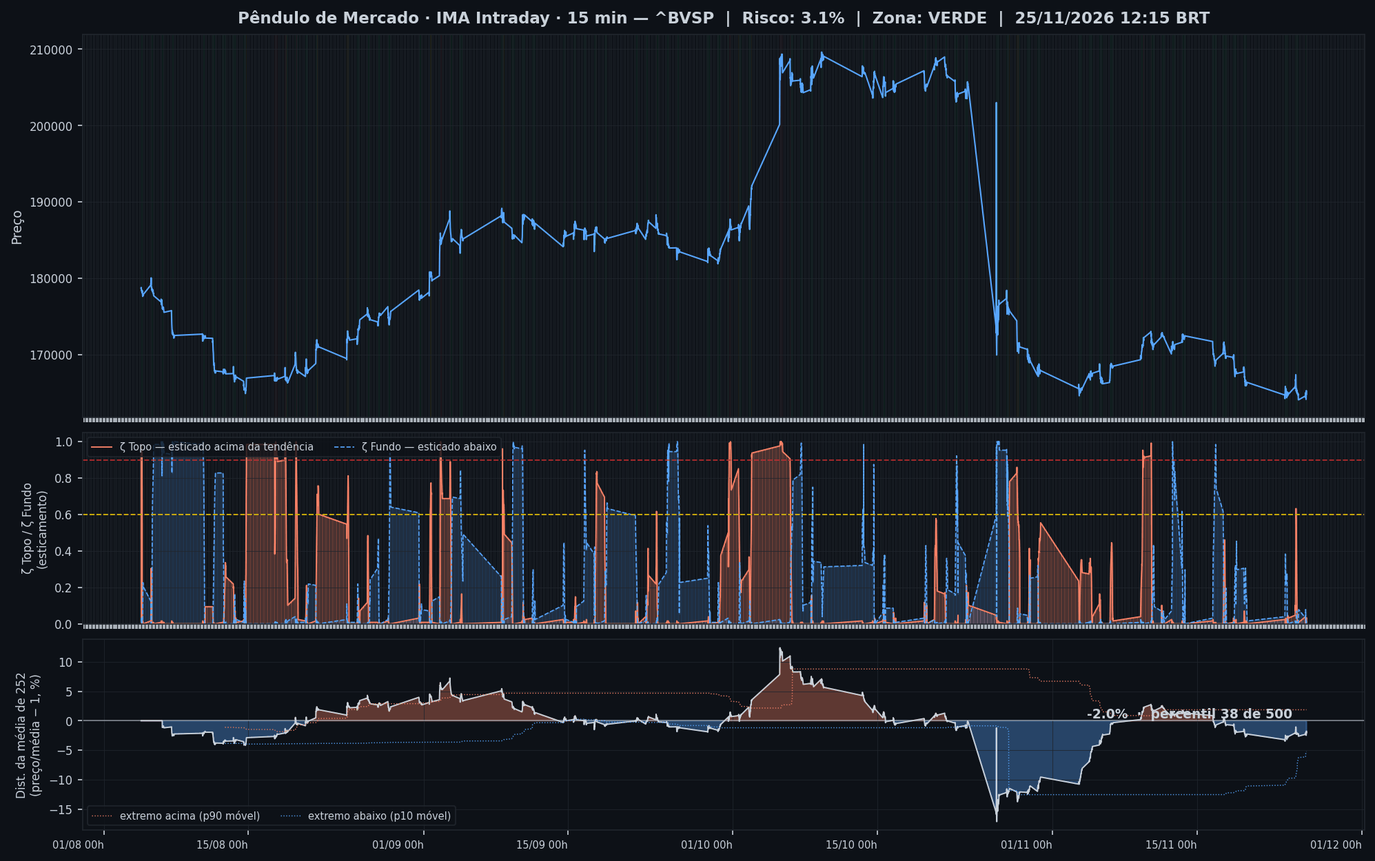
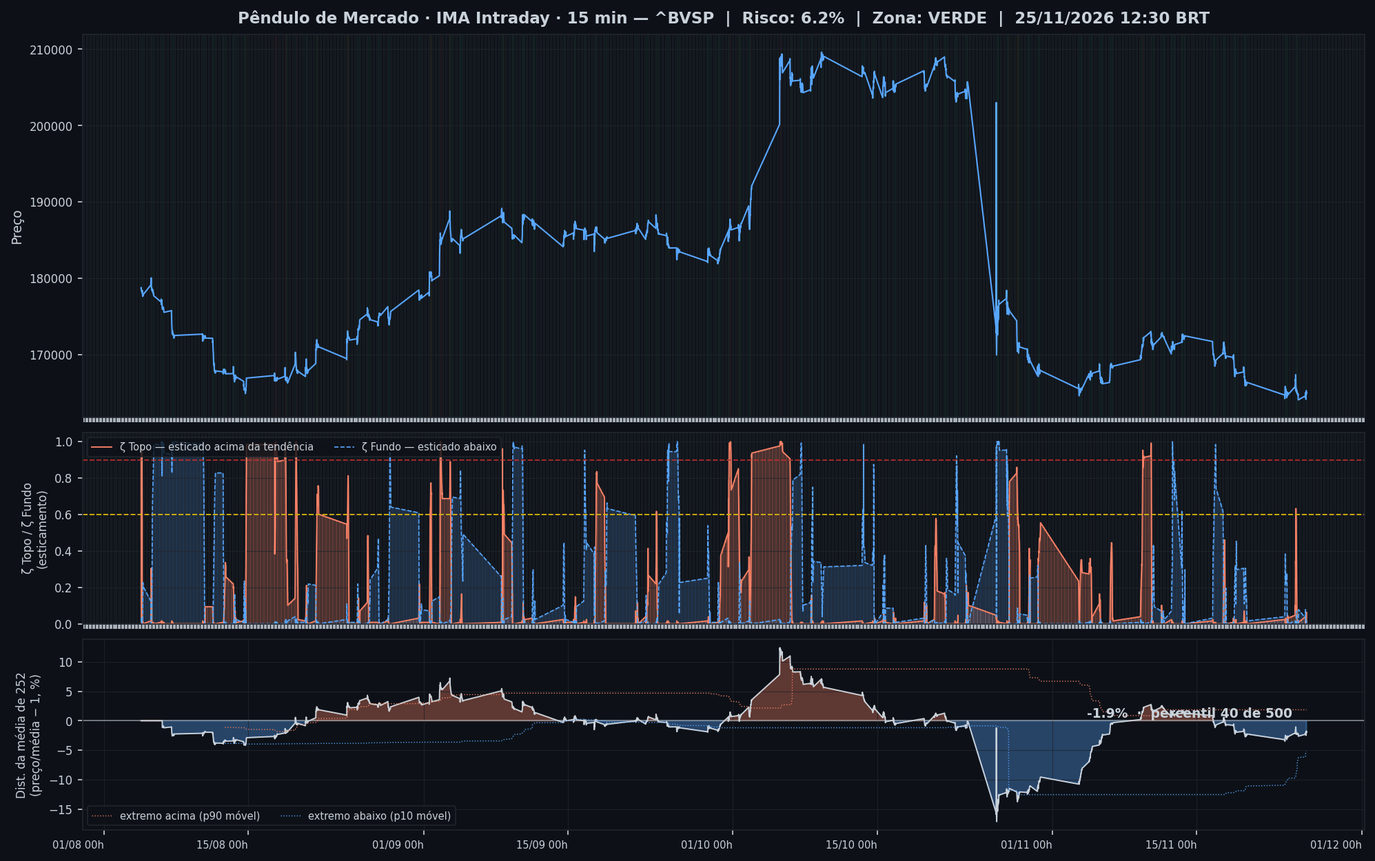
🤖 Auto: Sinal 25/11/2026 12:45

diff --git a/content/intraday/2026-11-25.md b/content/intraday/2026-11-25.md
@@ -1,20 +1,20 @@
 ---
-title: "🟢 Intraday 25/11/2026 12:15 BRT — VERDE"
+title: "🟢 Intraday 25/11/2026 12:30 BRT — VERDE"
 date: 2026-11-25
 tags: [intraday]
 ---
 
-<p style="margin:.4rem 0 .2rem"><span style="display:inline-block;text-align:center;margin:0 1.8rem .2rem 0"><span style="font-size:4rem;font-weight:800;line-height:1;color:inherit">3%</span><br><span style="font-size:.95rem;opacity:.75">ζ Topo</span></span><span style="display:inline-block;text-align:center;margin:0 1.8rem .2rem 0"><span style="font-size:4rem;font-weight:800;line-height:1;color:inherit">2%</span><br><span style="font-size:.95rem;opacity:.75">ζ Fundo</span></span><span style="display:inline-block;text-align:center;margin:0 1.8rem .2rem 0"><span style="font-size:4rem;font-weight:800;line-height:1;color:inherit">−2,0%</span><br><span style="font-size:.95rem;opacity:.75">Dist. da média · p38</span></span></p><p style="margin:0 0 .9rem;opacity:.7;font-size:.9rem">25/11/2026 12:15 BRT · candles de 15 min</p>
+<p style="margin:.4rem 0 .2rem"><span style="display:inline-block;text-align:center;margin:0 1.8rem .2rem 0"><span style="font-size:4rem;font-weight:800;line-height:1;color:inherit">6%</span><br><span style="font-size:.95rem;opacity:.75">ζ Topo</span></span><span style="display:inline-block;text-align:center;margin:0 1.8rem .2rem 0"><span style="font-size:4rem;font-weight:800;line-height:1;color:inherit">1%</span><br><span style="font-size:.95rem;opacity:.75">ζ Fundo</span></span><span style="display:inline-block;text-align:center;margin:0 1.8rem .2rem 0"><span style="font-size:4rem;font-weight:800;line-height:1;color:inherit">−1,9%</span><br><span style="font-size:.95rem;opacity:.75">Dist. da média · p40</span></span></p><p style="margin:0 0 .9rem;opacity:.7;font-size:.9rem">25/11/2026 12:30 BRT · candles de 15 min</p>
 
-> [!success] Onde o mercado está agora (25/11 12:15, candles de 15 min): **🟢 Sem esticamento**
-> `Pânico ····················· Euforia` · **sem leitura** — os dois ζ abaixo de 20% (Topo 3%, Fundo 2%). A régua mede ζ Topo − ζ Fundo, hoje +2 p.p.; ponteiro no centro seria lido como equilíbrio, e não há esticamento medido de nenhum dos dois lados.
+> [!success] Onde o mercado está agora (25/11 12:30, candles de 15 min): **🟢 Sem esticamento**
+> `Pânico ····················· Euforia` · **sem leitura** — os dois ζ abaixo de 20% (Topo 6%, Fundo 1%). A régua mede ζ Topo − ζ Fundo, hoje +5 p.p.; ponteiro no centro seria lido como equilíbrio, e não há esticamento medido de nenhum dos dois lados.
 >
-> **O Ibovespa está praticamente de lado agora, aos 164.822 pontos.** O preço não fez movimento brusco em relação à sua tendência, nem para cima nem para baixo. Isso fala da velocidade do movimento, não do nível do preço.
+> **O Ibovespa sobe 0,58% agora, aos 165.041 pontos.** O preço não fez movimento brusco em relação à sua tendência, nem para cima nem para baixo. Isso fala da velocidade do movimento, não do nível do preço.
 >
 > *Leitura educacional baseada em 26 anos de dados. Não é recomendação de investimento.*
 
-> [!success] IMA Intraday · 15 min (25/11 12:15): 🟢 **VERDE** — ζ Topo **3%** · ▲ +1 p.p. vs leitura anterior
-> `█░░░░░░░░░░░░░░░░░░░` **3%**
+> [!success] IMA Intraday · 15 min (25/11 12:30): 🟢 **VERDE** — ζ Topo **6%** · ▲ +3 p.p. vs leitura anterior
+> `█░░░░░░░░░░░░░░░░░░░` **6%**
 > Sem esticamento brusco em relação à tendência.
 
 
@@ -22,13 +22,13 @@ tags: [intraday]
 
 
 
-| Indicador — IMA Intraday · 15 min (25/11 12:15) | Valor |
+| Indicador — IMA Intraday · 15 min (25/11 12:30) | Valor |
 |---|---|
-| ζ Topo — preço esticado acima da tendência | **3%** |
-| ζ Fundo — preço esticado abaixo da tendência | 2% |
+| ζ Topo — preço esticado acima da tendência | **6%** |
+| ζ Fundo — preço esticado abaixo da tendência | 1% |
 | 🟢 Zona | VERDE |
-| 📊 Ibovespa | 164.822 pts <span style="color:#f85149" title="caiu">▼</span> (−0,29%) |
-| 📏 Distância da média | −2,0% (p38) |
+| 📊 Ibovespa | 165.041 pts <span style="color:#3fb950" title="subiu">▲</span> (+0,13%) |
+| 📏 Distância da média | −1,9% (p40) |
 | 🛰 Fonte do preço | preço da corretora, tempo real |
 
 
@@ -39,6 +39,7 @@ tags: [intraday]
 
 | Data | Fechamento | Zona | Evento | ζ Topo | ζ Fundo | Dist. média |
 |---|---|---|---|---|---|---|
+| 2026-11-25 12:30 | 165.041 <span style="color:#3fb950" title="subiu">▲</span> | 🟢 |  | **6%** | **1%** | −1,9% (p40) |
 | 2026-11-25 12:15 | 164.822 <span style="color:#f85149" title="caiu">▼</span> | 🟢 |  | **3%** | **2%** | −2,0% (p38) |
 | 2026-11-25 12:00 | 165.299 <span style="color:#3fb950" title="subiu">▲</span> | 🟢 |  | **2%** | **2%** | −1,8% (p42) |
 | 2026-11-25 11:45 | 164.848 <span style="color:#3fb950" title="subiu">▲</span> | 🟢 |  | **1%** | **1%** | −2,0% (p38) |
@@ -68,54 +69,53 @@ tags: [intraday]
 | 2026-11-24 14:00 | 165.330 <span style="color:#3fb950" title="subiu">▲</span> | 🟢 |  | **6%** | **1%** | −2,1% (p37) |
 | 2026-11-24 13:45 | 165.324 <span style="color:#3fb950" title="subiu">▲</span> | 🟢 |  | **14%** | **5%** | −2,1% (p37) |
 | 2026-11-24 13:30 | 165.251 <span style="color:#f85149" title="caiu">▼</span> | 🟢 |  | **21%** | **7%** | −2,2% (p36) |
-| 2026-11-24 13:15 | 165.520 <span style="color:#3fb950" title="subiu">▲</span> | 🟢 |  | **29%** | **6%** | −2,0% (p38) |
 
 <small>Destaques: 🟡 ≥ 60% · 🔴 ≥ 90% (ζ Topo) · 🔵 ≥ 60% · 🔪 ≥ 90% (ζ Fundo)<br>**Zona**: 🟢 calmo, 🟡 atenção e 🔴 extremo vêm do ζ Topo; 🔵 FUNDO (ζ Fundo ≥ 60%) e 🔪 FACA (≥ 90%) vêm do ζ Fundo e têm precedência, porque queda em andamento é fato medido, não previsão.<br>**Dist. média**: a distância do preço à média dos 252 candles de 15 min — **≈ 7,6 pregões**, medido em 33 barras por pregão — e, entre parênteses, o percentil dessa distância nos 500 candles anteriores (**≈ 15 pregões**). `−8,2% (p0)` = o preço está 8,2% **abaixo** da média e nunca esteve tão abaixo em toda a janela. 🔵 ≤ p10 · 🔴 ≥ p90. É a régua simples contra a qual o ζ precisa provar que acrescenta algo.</small>
 
 ## Monitor Multi-Ativo
 
-**15% dos ativos em tensão** (4 de 27 · 1🔪 3🟡) · leitura de 25/11 12:30 BRT, candles de 15 min — quanto mais ativos disparam juntos, mais confiável o sinal. 🔪 e 🔵 vêm do ζ Fundo; 🔴 e 🟡, do ζ Topo.
+**19% dos ativos em tensão** (5 de 27 · 1🔪 4🟡) · leitura de 25/11 12:45 BRT, candles de 15 min — quanto mais ativos disparam juntos, mais confiável o sinal. 🔪 e 🔵 vêm do ζ Fundo; 🔴 e 🟡, do ζ Topo.
 
 *Origem do preço: 26 da corretora, em tempo real · 1 da reserva, com cerca de 45 min de atraso (USD/BRL).*
 
 > [!danger] Em destaque no multi-ativo
-> 🔪 **EMBRAER** `EMBJ3` ζ Fundo 98% · 🟡 **SABESP** `SBSP3` ζ Topo 73% · 🟡 **VIBRA** `VBBR3` ζ Topo 65% · 🟡 **EQUATORIAL** `EQTL3` ζ Topo 63%
+> 🔪 **EMBRAER** `EMBJ3` ζ Fundo 97% · 🟡 **SABESP** `SBSP3` ζ Topo 77% · 🟡 **VIBRA** `VBBR3` ζ Topo 70% · 🟡 **EQUATORIAL** `EQTL3` ζ Topo 66% · 🟡 **ENEVA** `ENEV3` ζ Topo 62%
 
 | Zona | Ativo | Setor | Fechamento | ζ Topo | ζ Fundo | Dist. média |
 |---|---|---|---|---|---|---|
-| 🔪 | **EMBRAER** `EMBJ3` | Outros | 101,17 <span style="color:#f85149" title="caiu">▼</span> | 0.8% | 🔪 **97.7%** | 🔵 −7,3% (p1) |
-| 🟡 | **SABESP** `SBSP3` | Saneamento | 28,34 <span style="color:#3fb950" title="subiu">▲</span> | 🟡 **72.7%** | 0.8% | +3,1% (p59) |
-| 🟡 | **VIBRA** `VBBR3` | Energia | 31,98 <span style="color:#f85149" title="caiu">▼</span> | 🟡 **64.8%** | 0.8% | +4,6% (p90) |
-| 🟡 | **EQUATORIAL** `EQTL3` | Energia | 34,00 <span style="color:#3fb950" title="subiu">▲</span> | 🟡 **63.3%** | 0.8% | +1,1% (p68) |
-| 🟢 | **ENEVA** `ENEV3` | Energia | 27,10 <span style="color:#f85149" title="caiu">▼</span> | 54.7% | 0.8% | +2,4% (p79) |
-| 🟢 | **TELEF BRASIL** `VIVT3` | Outros | 34,63 <span style="color:#f85149" title="caiu">▼</span> | 0.0% | 53.9% | −1,1% (p11) |
-| 🟢 | **GERDAU** `GGBR4` | Siderurgia | 25,36 <span style="color:#f85149" title="caiu">▼</span> | 43.8% | 1.6% | +0,9% (p59) |
-| 🟢 | **WEG** `WEGE3` | Industrial | 49,04 <span style="color:#f85149" title="caiu">▼</span> | 0.8% | 41.4% | 🔵 −3,6% (p0) |
-| 🟢 | **ULTRAPAR** `UGPA3` | Outros | 30,94 <span style="color:#f85149" title="caiu">▼</span> | 39.8% | 6.2% | +0,6% (p71) |
-| 🟢 | **RUMO S.A.** `RAIL3` | Outros | 17,31 <span style="color:#f85149" title="caiu">▼</span> | 15.6% | 39.8% | +4,2% (p53) |
-| 🟢 | **BRASIL** `BBAS3` | Financeiro | 14,34 <span style="color:#f85149" title="caiu">▼</span> | 3.9% | 28.9% | −1,7% (p69) |
-| 🟢 | **USD/BRL** `USDBRL=X` | Câmbio | 5,87 <span style="color:#f85149" title="caiu">▼</span> | 0.8% | 23.4% | 🔵 +0,7% (p1) |
-| 🟢 | **VALE** `VALE3` | Mineração | 55,97 <span style="color:#f85149" title="caiu">▼</span> | 5.5% | 20.3% | −6,4% (p11) |
-| 🟢 | **PETROBRAS** `PETR3` | Petróleo | 46,41 <span style="color:#f85149" title="caiu">▼</span> | 17.2% | 3.1% | −5,9% (p43) |
-| 🟢 | **COPEL** `CPLE3` | Energia | 15,11 <span style="color:#f85149" title="caiu">▼</span> | 16.4% | 0.8% | −0,6% (p31) |
-| 🟢 | **PETROBRAS** `PETR4` | Petróleo | 40,83 <span style="color:#f85149" title="caiu">▼</span> | 14.8% | 2.3% | −5,5% (p52) |
-| 🟢 | **PRIO** `PRIO3` | Petróleo | 60,28 <span style="color:#f85149" title="caiu">▼</span> | 14.8% | 0.8% | −2,3% (p65) |
-| 🟢 | **REDE D OR** `RDOR3` | Saúde | 36,77 <span style="color:#f85149" title="caiu">▼</span> | 0.0% | 14.1% | +2,3% (p36) |
-| 🟢 | **BTGP BANCO** `BPAC11` | Financeiro | 50,65 <span style="color:#3fb950" title="subiu">▲</span> | 12.5% | 0.8% | −2,0% (p63) |
-| 🟢 | **AXIA ENERGIA** `AXIA3` | Energia | 46,24 <span style="opacity:.45" title="estável">▬</span> | 10.9% | 0.8% | −1,5% (p52) |
-| 🟢 | **LOCALIZA** `RENT3` | Aluguel | 28,88 <span style="color:#f85149" title="caiu">▼</span> | 0.8% | 10.9% | −1,8% (p41) |
-| 🟢 | **ITAUUNIBANCO** `ITUB4` | Financeiro | 39,48 <span style="color:#f85149" title="caiu">▼</span> | 0.0% | 8.6% | −3,0% (p21) |
-| 🟢 | **BRADESCO** `BBDC4` | Financeiro | 13,67 <span style="color:#f85149" title="caiu">▼</span> | 0.0% | 5.5% | −3,1% (p30) |
-| 🟢 | **AMBEV S/A** `ABEV3` | Consumo | 16,14 <span style="opacity:.45" title="estável">▬</span> | 0.0% | 5.5% | +1,3% (p43) |
-| 🟢 | **ITAUSA** `ITSA4` | Financeiro | 12,95 <span style="color:#f85149" title="caiu">▼</span> | 1.6% | 1.6% | −2,3% (p21) |
-| 🟢 | **B3** `B3SA3` | Financeiro | 14,38 <span style="color:#f85149" title="caiu">▼</span> | 1.6% | 1.6% | −0,8% (p43) |
-| 🟢 | **SUZANO S.A.** `SUZB3` | Papel/Celulose | 55,90 <span style="color:#3fb950" title="subiu">▲</span> | 0.8% | 1.6% | +0,9% (p22) |
+| 🔪 | **EMBRAER** `EMBJ3` | Outros | 102,04 <span style="color:#3fb950" title="subiu">▲</span> | 1.6% | 🔪 **96.9%** | 🔵 −6,5% (p2) |
+| 🟡 | **SABESP** `SBSP3` | Saneamento | 28,35 <span style="color:#3fb950" title="subiu">▲</span> | 🟡 **77.3%** | 1.6% | +3,1% (p59) |
+| 🟡 | **VIBRA** `VBBR3` | Energia | 32,01 <span style="color:#3fb950" title="subiu">▲</span> | 🟡 **70.3%** | 0.0% | 🔴 +4,6% (p91) |
+| 🟡 | **EQUATORIAL** `EQTL3` | Energia | 34,07 <span style="color:#3fb950" title="subiu">▲</span> | 🟡 **65.6%** | 1.6% | +1,3% (p70) |
+| 🟡 | **ENEVA** `ENEV3` | Energia | 27,12 <span style="color:#3fb950" title="subiu">▲</span> | 🟡 **62.5%** | 0.0% | +2,5% (p80) |
+| 🟢 | **TELEF BRASIL** `VIVT3` | Outros | 34,31 <span style="color:#f85149" title="caiu">▼</span> | 0.8% | 53.1% | 🔵 −2,0% (p8) |
+| 🟢 | **GERDAU** `GGBR4` | Siderurgia | 25,48 <span style="color:#3fb950" title="subiu">▲</span> | 47.7% | 0.8% | +1,4% (p68) |
+| 🟢 | **ULTRAPAR** `UGPA3` | Outros | 30,99 <span style="color:#3fb950" title="subiu">▲</span> | 45.3% | 0.0% | +0,8% (p72) |
+| 🟢 | **WEG** `WEGE3` | Industrial | 49,30 <span style="color:#3fb950" title="subiu">▲</span> | 1.6% | 43.8% | 🔵 −3,0% (p2) |
+| 🟢 | **LOCALIZA** `RENT3` | Aluguel | 28,81 <span style="color:#f85149" title="caiu">▼</span> | 0.8% | 42.2% | −2,0% (p38) |
+| 🟢 | **RUMO S.A.** `RAIL3` | Outros | 17,19 <span style="color:#f85149" title="caiu">▼</span> | 14.8% | 38.3% | +3,5% (p46) |
+| 🟢 | **USD/BRL** `USDBRL=X` | Câmbio | 5,86 <span style="color:#3fb950" title="subiu">▲</span> | 0.0% | 27.3% | 🔵 +0,5% (p1) |
+| 🟢 | **REDE D OR** `RDOR3` | Saúde | 36,61 <span style="color:#f85149" title="caiu">▼</span> | 0.8% | 25.8% | +1,9% (p27) |
+| 🟢 | **BRASIL** `BBAS3` | Financeiro | 14,40 <span style="color:#3fb950" title="subiu">▲</span> | 7.0% | 21.9% | −1,3% (p71) |
+| 🟢 | **PETROBRAS** `PETR4` | Petróleo | 40,96 <span style="color:#3fb950" title="subiu">▲</span> | 16.4% | 1.6% | −5,2% (p55) |
+| 🟢 | **PETROBRAS** `PETR3` | Petróleo | 46,50 <span style="color:#3fb950" title="subiu">▲</span> | 16.4% | 1.6% | −5,7% (p46) |
+| 🟢 | **AXIA ENERGIA** `AXIA3` | Energia | 46,28 <span style="color:#3fb950" title="subiu">▲</span> | 16.4% | 0.0% | −1,4% (p54) |
+| 🟢 | **COPEL** `CPLE3` | Energia | 15,10 <span style="color:#f85149" title="caiu">▼</span> | 15.6% | 0.8% | −0,7% (p31) |
+| 🟢 | **PRIO** `PRIO3` | Petróleo | 60,30 <span style="color:#3fb950" title="subiu">▲</span> | 14.1% | 0.0% | −2,2% (p65) |
+| 🟢 | **BTGP BANCO** `BPAC11` | Financeiro | 50,62 <span style="color:#f85149" title="caiu">▼</span> | 11.7% | 0.8% | −2,0% (p62) |
+| 🟢 | **VALE** `VALE3` | Mineração | 56,09 <span style="color:#3fb950" title="subiu">▲</span> | 10.2% | 7.0% | −6,1% (p14) |
+| 🟢 | **ITAUUNIBANCO** `ITUB4` | Financeiro | 39,57 <span style="color:#3fb950" title="subiu">▲</span> | 0.0% | 9.4% | −2,8% (p28) |
+| 🟢 | **AMBEV S/A** `ABEV3` | Consumo | 16,16 <span style="color:#3fb950" title="subiu">▲</span> | 0.0% | 7.0% | +1,4% (p46) |
+| 🟢 | **BRADESCO** `BBDC4` | Financeiro | 13,74 <span style="color:#3fb950" title="subiu">▲</span> | 0.0% | 3.9% | −2,6% (p36) |
+| 🟢 | **ITAUSA** `ITSA4` | Financeiro | 12,95 <span style="opacity:.45" title="estável">▬</span> | 1.6% | 1.6% | −2,3% (p22) |
+| 🟢 | **B3** `B3SA3` | Financeiro | 14,36 <span style="color:#f85149" title="caiu">▼</span> | 1.6% | 0.8% | −0,9% (p41) |
+| 🟢 | **SUZANO S.A.** `SUZB3` | Papel/Celulose | 55,72 <span style="color:#f85149" title="caiu">▼</span> | 1.6% | 1.6% | +0,6% (p20) |
 
 <small>Destaques: 🟡 ≥ 60% · 🔴 ≥ 90% (ζ Topo) · 🔵 ≥ 60% · 🔪 ≥ 90% (ζ Fundo)<br>**Zona**: 🟢 calmo, 🟡 atenção e 🔴 extremo vêm do ζ Topo; 🔵 FUNDO (ζ Fundo ≥ 60%) e 🔪 FACA (≥ 90%) vêm do ζ Fundo e têm precedência, porque queda em andamento é fato medido, não previsão.<br>**Dist. média**: a distância do preço à média dos 252 candles de 15 min — **≈ 7,6 pregões**, medido em 33 barras por pregão — e, entre parênteses, o percentil dessa distância nos 500 candles anteriores (**≈ 15 pregões**). `−8,2% (p0)` = o preço está 8,2% **abaixo** da média e nunca esteve tão abaixo em toda a janela. 🔵 ≤ p10 · 🔴 ≥ p90. É a régua simples contra a qual o ζ precisa provar que acrescenta algo.</small>
 
 ![Monitor multi-ativo](../graficos/multi_intraday.png)
 
-*Página atualizada em 25/11/2026 12:30 BRT (leitura da barra de 2026-11-25 12:15 BRT · preço da corretora, tempo real).*
+*Página atualizada em 25/11/2026 12:45 BRT (leitura da barra de 2026-11-25 12:30 BRT · preço da corretora, tempo real).*
 
 > [!warning] O que este indicador não faz
 > Medido em 5 anos de Ibovespa, o ζ **não antecipa** topos nem fundos: a capacidade de separar o que sobe do que cai ficou em 0,49–0,52, e 0,50 é moeda jogada ao ar. Ele descreve o estado de agora; não é aviso do que vem. As zonas verde/amarelo/vermelho continuam na página como descrição desse estado — **não as use como sinal de entrada ou saída**.

diff --git a/content/index.md b/content/index.md
@@ -7,12 +7,12 @@ tags: [home]
 
 **As ondas do mercado, explicadas.** Leitura do Ibovespa com estatística de 26 anos, baseada no trabalho de pesquisadores e traders reconhecidos e adaptada por Jarbas Daniel da Costa.
 
-*Última atualização: 25/11/2026 12:30 BRT · Intraday 15min · preço da corretora, tempo real*
+*Última atualização: 25/11/2026 12:45 BRT · Intraday 15min · preço da corretora, tempo real*
 
-> [!success] Onde o mercado está agora (25/11 12:15, candles de 15 min): **🟢 Sem esticamento**
-> `Pânico ····················· Euforia` · **sem leitura** — os dois ζ abaixo de 20% (Topo 3%, Fundo 2%). A régua mede ζ Topo − ζ Fundo, hoje +2 p.p.; ponteiro no centro seria lido como equilíbrio, e não há esticamento medido de nenhum dos dois lados.
+> [!success] Onde o mercado está agora (25/11 12:30, candles de 15 min): **🟢 Sem esticamento**
+> `Pânico ····················· Euforia` · **sem leitura** — os dois ζ abaixo de 20% (Topo 6%, Fundo 1%). A régua mede ζ Topo − ζ Fundo, hoje +5 p.p.; ponteiro no centro seria lido como equilíbrio, e não há esticamento medido de nenhum dos dois lados.
 >
-> **O Ibovespa está praticamente de lado agora, aos 164.822 pontos.** O preço não fez movimento brusco em relação à sua tendência, nem para cima nem para baixo. Isso fala da velocidade do movimento, não do nível do preço.
+> **O Ibovespa sobe 0,58% agora, aos 165.041 pontos.** O preço não fez movimento brusco em relação à sua tendência, nem para cima nem para baixo. Isso fala da velocidade do movimento, não do nível do preço.
 >
 > *Leitura educacional baseada em 26 anos de dados. Não é recomendação de investimento.*
 
@@ -20,7 +20,7 @@ tags: [home]
 
 | Módulo | Agora | |
 |---|---|---|
-| 🌊 **Sinal IMA** | 🟢 VERDE · 🟢 calmo · ζ Topo 3% | [relatório](intraday/2026-11-25) |
+| 🌊 **Sinal IMA** | 🟢 VERDE · 🟢 calmo · ζ Topo 6% | [relatório](intraday/2026-11-25) |
 | 📈 **Tendência MME9** | Diário — fora<br>Semanal — fora | [abrir](operacoes/tendencia) |
 | 🎯 **Entradas do método** | — nenhuma regra com setup ativo | [abrir](operacoes/entradas) |
 | 📍 **Sinais** | hoje: nenhum sinal | [abrir](sinais-topo-fundo/) |
@@ -39,27 +39,27 @@ tags: [home]
 *[Linha do tempo completa](linha-do-tempo/) — todo sinal, ordem, stop e aviso, do mais recente para o mais antigo. ⚡ = vale durante o pregão · ⏱ = no fechamento.*
 
 > [!info]- 🌊 Detalhes do Sinal IMA (indicadores e últimos 7 pregões)
-> > [!success] IMA Intraday · 15 min (25/11 12:15): 🟢 **VERDE** — ζ Topo **3%** · ▲ +1 p.p. vs leitura anterior
-> > `█░░░░░░░░░░░░░░░░░░░` **3%**
+> > [!success] IMA Intraday · 15 min (25/11 12:30): 🟢 **VERDE** — ζ Topo **6%** · ▲ +3 p.p. vs leitura anterior
+> > `█░░░░░░░░░░░░░░░░░░░` **6%**
 > > Sem esticamento brusco em relação à tendência.
 >
 >
-> | Indicador — IMA Intraday · 15 min (25/11 12:15) | Valor |
+> | Indicador — IMA Intraday · 15 min (25/11 12:30) | Valor |
 > |---|---|
-> | ζ Topo — preço esticado acima da tendência | **3%** |
-> | ζ Fundo — preço esticado abaixo da tendência | 2% |
+> | ζ Topo — preço esticado acima da tendência | **6%** |
+> | ζ Fundo — preço esticado abaixo da tendência | 1% |
 > | 🟢 Zona | VERDE |
-> | 📊 Ibovespa | 164.822 pts <span style="color:#f85149" title="caiu">▼</span> (−0,29%) |
-> | 📏 Distância da média | −2,0% (p38) |
+> | 📊 Ibovespa | 165.041 pts <span style="color:#3fb950" title="subiu">▲</span> (+0,13%) |
+> | 📏 Distância da média | −1,9% (p40) |
 > | 🛰 Fonte do preço | preço da corretora, tempo real |
 >
-> **Multi-ativo:** 11% em tensão (0🔴 3🟡 de 27 ativos)
+> **Multi-ativo:** 15% em tensão (0🔴 4🟡 de 27 ativos)
 >
 > **Últimos 7 pregões**
 >
 > | Data | Fechamento | Zona | ζ Topo | ζ Fundo | Dist. média |
 > |---|---|---|---|---|---|
-> | [25/11/2026](intraday/2026-11-25) | 164.822 <span style="color:#f85149" title="caiu">▼</span> | 🟢 | **3%** | **2%** | −2,0% (p38) |
+> | [25/11/2026](intraday/2026-11-25) | 165.041 <span style="color:#3fb950" title="subiu">▲</span> | 🟢 | **6%** | **1%** | −1,9% (p40) |
 > | [24/11/2026](intraday/2026-11-24) | 164.090 <span style="opacity:.45" title="estável">▬</span> | 🟢 | **1%** | **8%** | −2,6% (p27) |
 >
 > <small>Destaques: 🟡 ≥ 60% · 🔴 ≥ 90% (ζ Topo) · 🔵 ≥ 60% · 🔪 ≥ 90% (ζ Fundo)<br>**Zona**: 🟢 calmo, 🟡 atenção e 🔴 extremo vêm do ζ Topo; 🔵 FUNDO (ζ Fundo ≥ 60%) e 🔪 FACA (≥ 90%) vêm do ζ Fundo e têm precedência, porque queda em andamento é fato medido, não previsão.<br>**Dist. média**: a distância do preço à média dos 252 pregões — **≈ 1 ano** — e, entre parênteses, o percentil dessa distância nos 500 pregões anteriores (**≈ 2 anos**). `−8,2% (p0)` = o preço está 8,2% **abaixo** da média e nunca esteve tão abaixo em toda a janela. 🔵 ≤ p10 · 🔴 ≥ p90. É a régua simples contra a qual o ζ precisa provar que acrescenta algo.</small>

diff --git a/content/integridade/index.md b/content/integridade/index.md
@@ -6,7 +6,7 @@ description: "O que foi conferido, contra qual fonte e quando — medido na hora
 tags: [integridade]
 ---
 
-*Pregão conferido: **24/11/2026**, com 59 tabelas no acervo · página gerada em 25/11/2026 12:30*
+*Pregão conferido: **24/11/2026**, com 59 tabelas no acervo · página gerada em 25/11/2026 12:45*
 
 O pregão conferido é o último **fechado e arquivado inteiro**, não o de hoje: enquanto o dia corre, só algumas tabelas estão gravadas, e conferir um dia pela metade produziria alarme falso.
 
@@ -23,7 +23,7 @@ Esta página não declara que o site está correto. Ela **mede** e escreve o res
 | Tabelas com conteúdo fora da curva | **1** — veja a seção 1 |
 | Páginas publicadas | 370 |
 | Conferências cruzadas das páginas | 71 certas, nenhuma divergência |
-| Página escrita mais recentemente | 25/11 12:30 |
+| Página escrita mais recentemente | 25/11 12:45 |
 | Páginas sem data no cabeçalho | 9 — cegas para a conferência de dado |
 
 ## 1 · Acervo do boletim diário

diff --git a/content/operacoes/ranking.md b/content/operacoes/ranking.md
@@ -56,7 +56,7 @@ description: "As regras de compra do site ordenadas pelo resultado, com treino, 
 > 
 > Operação **com 🧪** começou depois de **23/10/2026**, com as regras congeladas. É o único resultado sem nenhum ajuste ao passado, e é por ele que cada regra está sendo julgada.
 
-*Atualizado 25/11/2026 12:30 · histórico simulado com as regras congeladas em 23/10/2026 + placar ao vivo.*
+*Atualizado 25/11/2026 12:45 · histórico simulado com as regras congeladas em 23/10/2026 + placar ao vivo.*
 
 As regras de compra do site, **da que mais rendeu para a que menos rendeu**. O resultado é por operação, no índice à vista, sem custos e sem juros compostos (a soma é só a soma das operações). **Treino** = entradas de 2001 a 2013 e **teste** = 2014 em diante: uma regra só é confiável se ganhou nos dois. O único resultado sem nenhum ajuste ao histórico é o **placar ao vivo**.
 

diff --git a/content/lppl.md b/content/lppl.md
@@ -5,7 +5,7 @@ date: 2026-11-25
 
 <p style="margin:.4rem 0 0"><span style="display:inline-block;text-align:center;margin:0 1.8rem .2rem 0"><span style="font-size:4rem;font-weight:800;line-height:1;color:inherit">0%</span><br><span style="font-size:.95rem;opacity:.75">bolha</span></span><span style="display:inline-block;text-align:center;margin:0 1.8rem .2rem 0"><span style="font-size:4rem;font-weight:800;line-height:1;color:inherit">0%</span><br><span style="font-size:.95rem;opacity:.75">antibolha</span></span></p>
 
-**Leitura de 24/11/2026** · pagina gerada em 25/11/2026 12:30 BRT
+**Leitura de 24/11/2026** · pagina gerada em 25/11/2026 12:45 BRT
 
 Acima de 30% o sinal deixa de ser ruido. O LPPL **nao** decide o semaforo do site — veja a nota no fim.
 

diff --git a/content/historico.md b/content/historico.md
@@ -5,7 +5,7 @@ tags: [historico]
 
 # 📜 Histórico de leituras (v5)
 
-**2.592 leituras** desde 2026-07-03. Na página ficam os últimos 3 dias leitura por leitura e o resumo de cada dia anterior; o registro inteiro está no arquivo para baixar.
+**2.593 leituras** desde 2026-07-03. Na página ficam os últimos 3 dias leitura por leitura e o resumo de cada dia anterior; o registro inteiro está no arquivo para baixar.
 
 [**Baixar o histórico completo**](historico-completo.csv) (113 KB · abre no Excel e no LibreOffice)
 
@@ -18,6 +18,7 @@ tags: [historico]
 
 | Data | Zona | ζ Topo |
 |---|---|---|
+| 2026-11-25 12:30 | 🟢 | **6%** |
 | 2026-11-25 12:15 | 🟢 | **3%** |
 | 2026-11-25 12:00 | 🟢 | **2%** |
 | 2026-11-25 11:45 | 🟢 | **1%** |

diff --git a/content/linha-do-tempo/index.md b/content/linha-do-tempo/index.md
@@ -5,7 +5,7 @@ description: "Todo sinal, ordem, stop e aviso do Pêndulo de Mercado, do mais re
 tags: [eventos]
 ---
 
-*Atualizada 25/11/2026 12:30 BRT · a cada 15 min no pregão e às 19h.*
+*Atualizada 25/11/2026 12:45 BRT · a cada 15 min no pregão e às 19h.*
 
 Tudo o que o sistema fez ou detectou, **do mais recente para o mais antigo**: sinais de topo e fundo, ordens de compra e de venda armadas, compras, vendas, stops, avisos de 🚨 preço perto do nível e mudanças do Sinal IMA. Os **últimos 7 dias** ficam abertos; o resto, por **ano → mês → dia**.
 

diff --git a/content/avisos/index.md b/content/avisos/index.md
@@ -2,7 +2,7 @@
 title: "⚠ Avisos: o que saber antes de usar os números"
 ---
 
-*Gerado em 25/11/2026 12:30*
+*Gerado em 25/11/2026 12:45*
 
 Este site publica muitos números, e cada um tem uma limitação que importa na hora de
 decidir. As limitações estão escritas nas próprias páginas, mas quem chega direto numa
